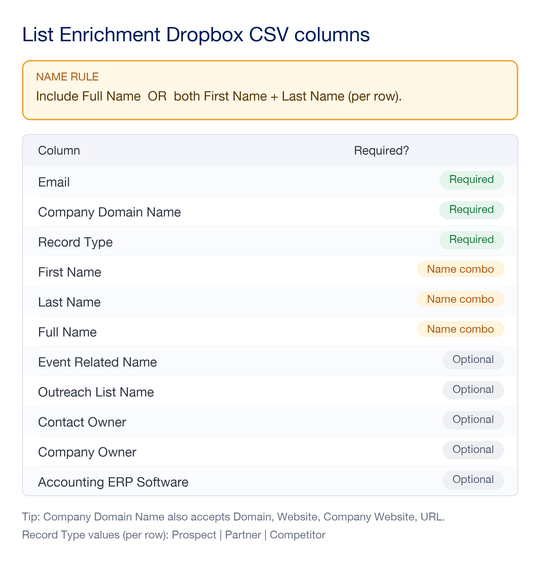
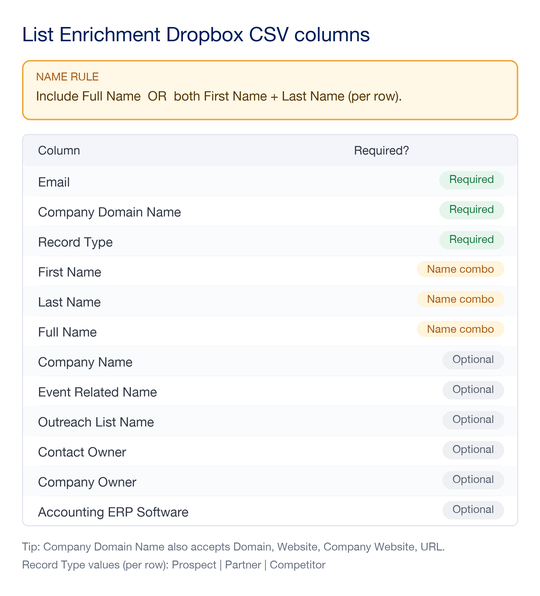
Add Company Name as optional CSV column
Lets users include a company name on each row when they have it
(common from event lists / partner lists). When missing, ZoomInfo
enrichment downstream fills it in. Updated config, sample template,
format guide, and test-data generator to match.

diff --git a/scripts/generate_fake_contacts.py b/scripts/generate_fake_contacts.py
@@ -70,6 +70,11 @@ URL_PREFIXES = ["", "", "", "", "www.", "https://", "https://www.", "http://"]
 random.seed(42)
 
 
+def _company_name_from_base(base: str) -> str:
+    """Turn a domain base like 'fintech-labs' into 'Fintech Labs'."""
+    return " ".join(part.capitalize() for part in base.replace("-", " ").split())
+
+
 def main(n: int = 300) -> None:
     headers = [
         "First Name",
@@ -77,6 +82,7 @@ def main(n: int = 300) -> None:
         "Website",
         "Email Address",
         "Record Type",
+        "Company Name",
         "Event Related Name",
         "Outreach List Name",
         "Accounting ERP Software",
@@ -94,6 +100,7 @@ def main(n: int = 300) -> None:
         "", "", "", "Outbound May", "ABM Tier 1", "Event Followup Q2",
         "ICP Discovery", "Top 500 Mid-Market",
     ]
+    company_suffixes = ["", "", " Inc.", " LLC", " Corp", ", Inc.", " Group"]
 
     with OUT.open("w", newline="", encoding="utf-8") as f:
         writer = csv.writer(f)
@@ -109,12 +116,21 @@ def main(n: int = 300) -> None:
             email_local = f"{first}.{last}".lower().replace(" ", "")
             email = f"{email_local}@{domain}"
 
+            # ~25% of rows leave Company Name blank to exercise the optional path.
+            if random.random() < 0.25:
+                company_name = ""
+            else:
+                company_name = (
+                    _company_name_from_base(base) + random.choice(company_suffixes)
+                )
+
             writer.writerow([
                 first,
                 last,
                 website,
                 email,
                 random.choice(record_types),
+                company_name,
                 random.choice(events),
                 random.choice(outreach),
                 random.choice(erp_options),

diff --git a/config.py b/config.py
@@ -16,6 +16,7 @@ NAME_HEADERS = [
 ]
 
 OPTIONAL_HEADERS = [
+    "Company Name",
     "Event Related Name",
     "Outreach List Name",
     "Contact Owner",
@@ -49,6 +50,14 @@ HEADER_ALIASES = {
     "full name": "Full Name",
     "full_name": "Full Name",
     "fullname": "Full Name",
+    "company name": "Company Name",
+    "company_name": "Company Name",
+    "companyname": "Company Name",
+    "company": "Company Name",
+    "organization": "Company Name",
+    "organization name": "Company Name",
+    "org": "Company Name",
+    "account name": "Company Name",
     "event related name": "Event Related Name",
     "event_related_name": "Event Related Name",
     "outreach list name": "Outreach List Name",